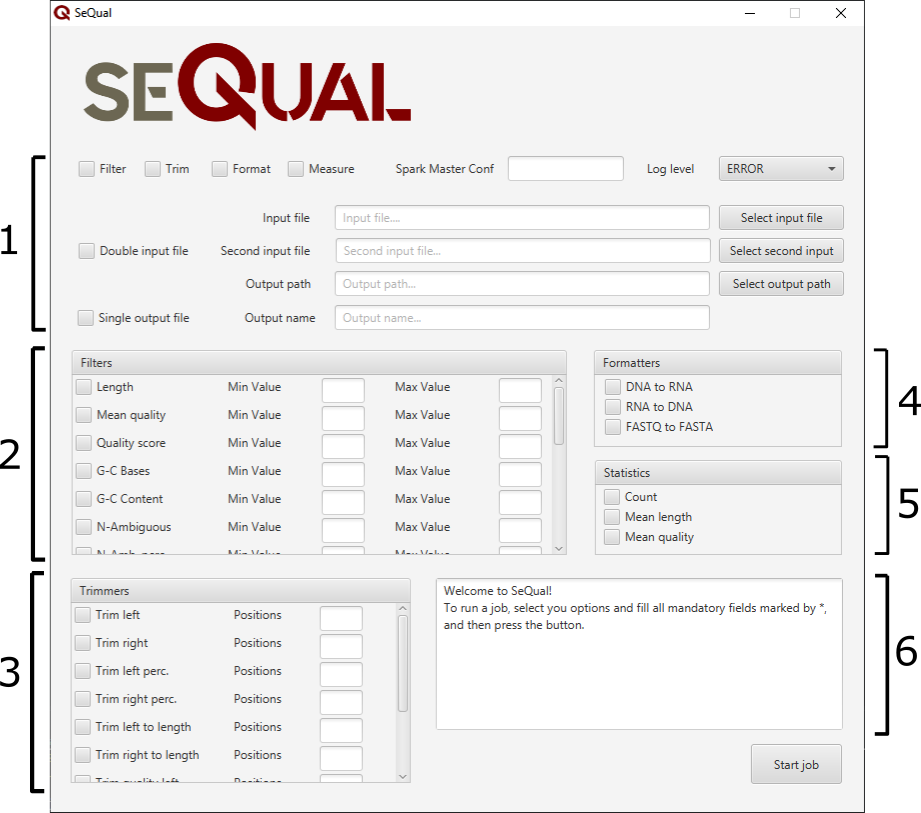
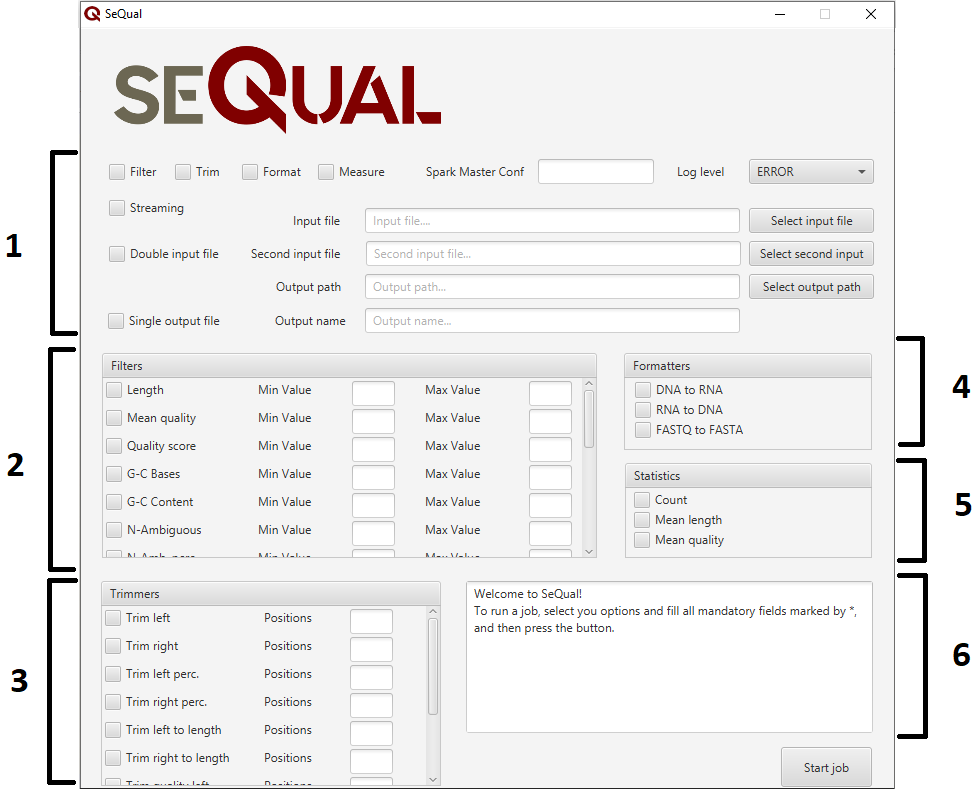
Update Readme and GUI example image

diff --git a/README.md b/README.md
@@ -3,8 +3,9 @@
 
 It is a tool derived from **SeQual**, which can be found on its own [repository](https://github.com/UDC-GAC/SeQual/).
 SeQual-Stream adapts its operation to work in streaming mode and process the data as it is downloaded to HDFS or another file system.
+It allows switching between batch mode (former SeQual) and streaming mode (new SeQual-Stream).
 
-This tool is specifically oriented to work with large amounts of data taking advantage of distributed-memory systems such as clusters and clouds looking forward to offer the best performance. SeQual-Stream is implemented in Java on top of the open-source [Apache Spark](http://spark.apache.org) framework to manage such distributed data processing over a cluster of machines and its module [Spark Structured Streaming](https://spark.apache.org/docs/latest/structured-streaming-programming-guide.html) to process the stream data as micro-batches.
+In the same way as SeQual, this tool is specifically oriented to work with large amounts of data taking advantage of distributed-memory systems such as clusters and clouds looking forward to offer the best performance. SeQual-Stream is implemented in Java on top of the open-source [Apache Spark](http://spark.apache.org) framework to manage such distributed data processing over a cluster of machines and introduces the streaming mode using the module [Spark Structured Streaming](https://spark.apache.org/docs/latest/structured-streaming-programming-guide.html).
 
 ## Getting Started
 
@@ -39,10 +40,10 @@ Note that the first time you execute the previous command, Maven will download a
 
 ### SeQual-CMD
 
-SeQual-CMD allows the processing of NGS datasets from a console interface. To do so, you just need to use the *spark-submit* command provided by Spark to launch the appropriate jar file (sequal-cmd.jar) located at the *bin* directory.
+SeQual-CMD allows the processing of NGS datasets from a console interface. To do so, you just need to use the *spark-submit* command provided by Spark to launch the appropriate jar file (sequal-cmd.jar) located at the *SeQual-CMD/target* directory.
 
 ```
-spark-submit [SPARK_ARGS] bin/sequal-cmd.jar [SEQUAL_ARGS]
+spark-submit [SPARK_ARGS] SeQual-CMD/target/sequal-cmd.jar [SEQUAL-STREAM_ARGS]
 ```
 
 To specify the specific operations to be performed over the input datasets, together with their necessary parameters, a Java properties file is used as input argument (option -c). SeQual-Stream includes a blank properties file at the *etc* directory (ExecutionParameters.properties) that can be used as template, which includes all the possible operations and parameters. Additionally, SeQual-CMD provides the option -g to generate a new blank properties file as shown in the examples below.
@@ -67,7 +68,7 @@ All the available input arguments to SeQual-CMD are the following:
 The following command processes a single-end FASTQ dataset using the TRIMRIGHT operation in order to trim sequences 15 positions (i.e. bases) starting from the right:
 
 ```
-spark-submit bin/sequal-cmd.jar -i dataset.fastq -o output -c etc/ExecutionParameters.properties -t
+spark-submit SeQual-CMD/target/sequal-cmd.jar -i dataset.fastq -o output -c etc/ExecutionParameters.properties -t
 ```
 
 The properties file used in the previous example contains the following values:
@@ -76,11 +77,16 @@ The properties file used in the previous example contains the following values:
 Trimmers=TRIMRIGHT
 TrimRight=15
 ```
+In streaming mode, if in the previous example the input dataset was stored on the local file system (e.g. in the $HOME/datasets path) rather than HDFS, you could use the following command:
+
+```
+spark-submit SeQual-CMD/target/sequal-cmd.jar -i file://$HOME/datasets/dataset.fastq -o output -c etc/ExecutionParameters.properties -t
+```
 
 The following example shows the processing of a paired-end dataset (i.e. two input files) using the QUALITY operation in order to filter out those paired sequences whose mean quality is below 25
 
 ```
-spark-submit bin/sequal-cmd.jar -i dataset_1.fastq -di dataset_2.fastq -o output -c etc/ExecutionParameters.properties -f
+spark-submit SeQual-CMD/target/sequal-cmd.jar -i dataset_1.fastq -di dataset_2.fastq -o output -c etc/ExecutionParameters.properties -f
 ```
 In the previous example, the properties file contains:
 
@@ -92,17 +98,17 @@ QualityMinVal=25
 The last example shows how to create a new blank properties file (ExecutionParameters.properties) using the option -g. The template is generated within the directory specified using the option -o:
 
 ```
-spark-submit bin/sequal-cmd.jar -g -o ouput
+spark-submit SeQual-CMD/target/sequal-cmd.jar -g -o ouput
 ```
 
 ### SeQual-GUI
 
 SeQual-GUI allows using a graphical user interface rather than the console, thus greatly simplifying its usage to non-computer science experts. This GUI has been implemented upon the [JavaFX](https://openjfx.io) library.
 
-To execute SeQual-GUI, you must also rely on the spark-submit command to do so. Unlike SeQual-CMD, no additional arguments are needed, so just launch the appropriate jar file (sequal-gui.jar) which is also located at the *bin* directory:
+To execute SeQual-GUI, you must also rely on the spark-submit command to do so. Unlike SeQual-CMD, no additional arguments are needed, so just launch the appropriate jar file (sequal-gui.jar) which is located at the *SeQual-GUI/target* directory:
 
 ```
-spark-submit [SPARK_ARGS] bin/sequal-gui.jar
+spark-submit [SPARK_ARGS] SeQual-GUI/target/sequal-gui.jar
 ```
 
 #### Important notes about JavaFX
@@ -117,7 +123,7 @@ The graphical interface of SeQual-Stream is shown in the following picture.
 
 This interface is mainly composed by 6 different fields:
 
-* **1: Configuration section.** Allows the user to specify different parameters, like the input file, the output folder, the log level...
+* **1: Configuration section.** Allows the user to specify different parameters, like the input file, the output folder, the log level, using or not streaming mode ...
 * **2: Filters section.** Allows the user to select which filters should be applied, as well as their corresponding parameters.
 * **3: Trimmers section.** Allows the user to select which trimmers should be applied, as well as their corresponding parameters.
 * **4: Formmatters sections.** Allows the user to select which formatters should be applied.
@@ -125,13 +131,13 @@ This interface is mainly composed by 6 different fields:
 * **6: Output section.** A console-like window that shows useful information to the user about the status of the data processing.
 
 ## SeQual-Stream features
-SeQual-Stream allow switching between batch (SeQual) or streaming (SeQual-Stream) mode using the parameter **MODE** on its properties file. 
+SeQual-Stream allows switching between batch (SeQual) or streaming (SeQual-Stream) mode using the parameter **Mode** on its properties file. 
 
 On batch mode four groups of features or operations that can be performed over the input datasets are offered, grouped based on the operation's objective.
 On streaming mode, a subset of this operations are supported.
 These groups of are:
 
-* **Filters**: They remove the sequences that do not comply with the specified thresholds specified by the user. There are single filters as well as group filter (only in batch mode).
+* **Filters**: They remove the sequences that do not comply with the specified thresholds specified by the user. There are single filters as well as group filters (only in batch mode).
 * **Trimmers**: They trim the sequences following the specified parameters.
 * **Formatters**: They apply data transformations to the sequences.
 * **Statistics** (only in batch mode): They compute different statistics in the dataset.
@@ -192,7 +198,7 @@ Besides the previous mentioned groups, there are other features grouped under th
 * **Reading of FASTQ format datasets:** Allows to read datasets of sequences in FASTA format. In streaming mode, datasets can be stored in another file system besides HDFS and can be in the process of being downloaded.
 * **Reading of paired-end FASTA format datasets:** Allows to read datasets of paired-end sequences in FASTA format. The sequences must be separated in two different input files. In streaming mode, datasets can be stored in another file system besides HDFS and can be in the process of being downloaded.
 * **Reading of paired-end FASTQ format datasets:** Allows to read datasets of paired-end sequences in FASTA format. The sequences must be separated in two different input files. In streaming mode, datasets can be stored in another file system besides HDFS and can be in the process of being downloaded.
-* **Writing of resulting sequences:** Allows to write the resulting sequences after the operations in the indicated path, generating two different folders in case of paired-end datasets. This type of writing is done by default, writing the result in several output text files. In streaming mode, the output text files are written into several subfolders sorted by name.
+* **Writing of resulting sequences:** Allows to write the resulting sequences after the operations in the indicated path, generating two different folders in case of paired-end datasets. This type of writing is done by default, writing the result in several output text files. In streaming mode, the output text files are written into several subfolders.
 * **Writing of resulting sequences to an individual file:** Allows to write the resulting sequences after the operations to a single output file in the indicated path, or in to two output files in case of paired-end datasets.
 * **Configure Spark execution mode:** Allows to configure the master URL for Spark, being local[*] by default (which implies using all the available cores in the machine where SeQual-Stream is executed).
 * **Configure the level of log shown to the user:** Allows to configure the log level shown to the user by Spark and other libraries. The default level is ERROR.
